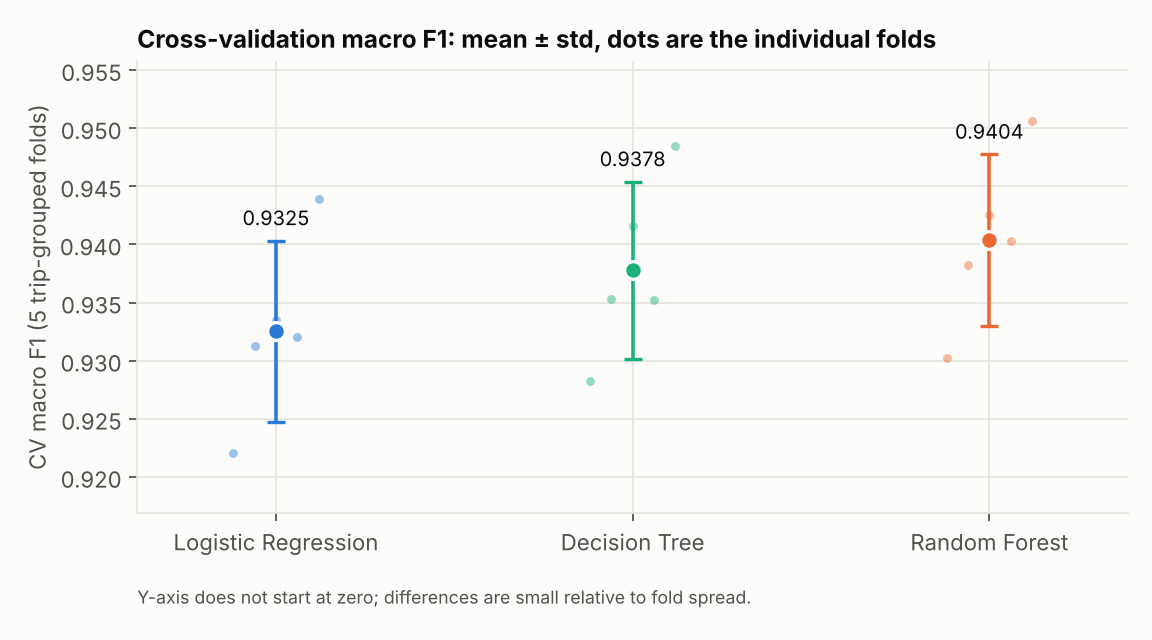
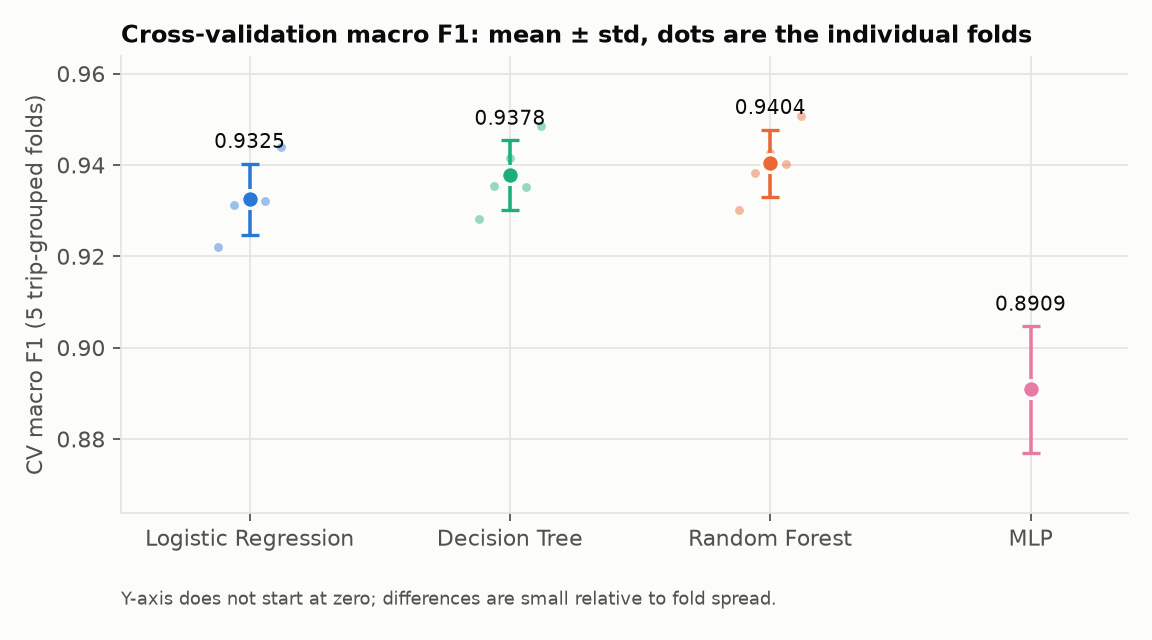
docs: integrate MLP into consolidated model comparison table and figures

diff --git a/results/tables/model_comparison.md b/results/tables/model_comparison.md
@@ -3,3 +3,4 @@
 | Logistic Regression | Linear / probabilistic | C=1.0, max_iter=1000, solver=lbfgs | 0.9325 ± 0.0078 | 0.8533 | 0.9265 | 0.9138 | 0.1428 | 0.0010 |
 | Decision Tree | Decision tree (single, non-ensemble) | max_depth=10, min_samples_leaf=20 | 0.9378 ± 0.0076 | 0.8757 | 0.9371 | 0.9269 | 0.1071 | 0.0002 |
 | Random Forest | Bagging ensemble (trees) | n_estimators=100, max_depth=None, min_samples_leaf=20, max_features=sqrt, max_samples=0.25 | 0.9404 ± 0.0074 | 0.8740 | 0.9389 | 0.9259 | 0.0993 | 0.0295 |
+| MLP | Neural network (MLP) | hidden_layers=(64, 32), activation=relu, alpha=0.0001, solver=adam | 0.8909 ± 0.0138 | 0.8381 | 0.9441 | 0.8575 | 0.1641 | 0.0077 |
